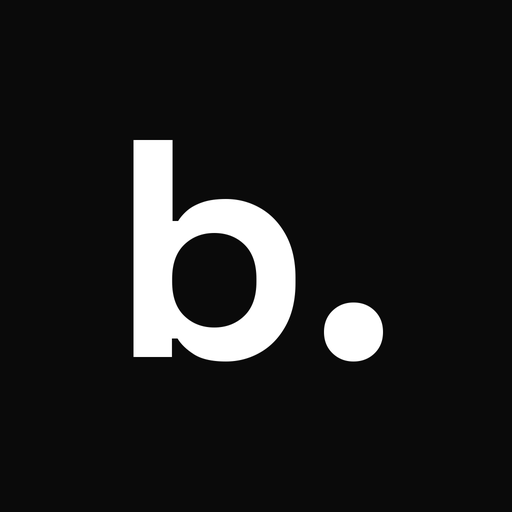
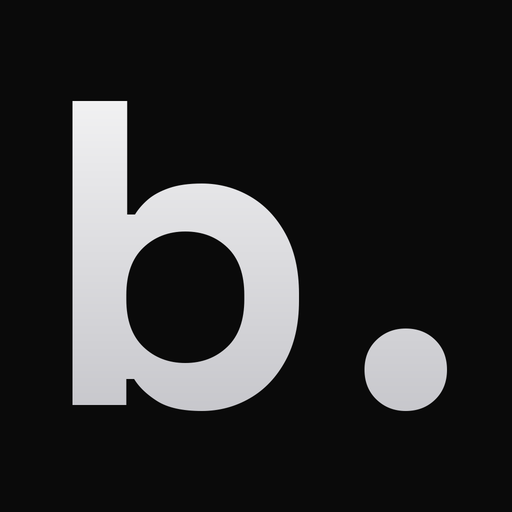
Icona b. più grande (come la R di Revolut), con sfumatura e ombra leggera
Claude-Session: https://claude.ai/code/session_01FKbM9EfrvZ7Xuo11NjrBUj

Changed region(s): [[0.125, 0.1875, 0.5938, 0.8125], [0.625, 0.5938, 0.875, 0.8125]]

diff --git a/src/sw.js b/src/sw.js
@@ -1,5 +1,5 @@
 // Copia offline dell'app. Cambia VERSIONE a ogni aggiornamento.
-const VERSIONE='budget-v58';
+const VERSIONE='budget-v59';
 const FILES=['./','./index.html','./manifest.webmanifest','./apple-touch-icon.png','./icon-192.png','./icon-512.png','./manifest-scura.webmanifest','./apple-touch-icon-scura.png','./icon-192-scura.png','./icon-512-scura.png'];
 self.addEventListener('install',e=>{e.waitUntil(caches.open(VERSIONE).then(c=>c.addAll(FILES)));self.skipWaiting()});
 self.addEventListener('activate',e=>{e.waitUntil(caches.keys().then(k=>Promise.all(k.filter(n=>n!==VERSIONE).map(n=>caches.delete(n)))).then(()=>self.clients.claim()))});

diff --git a/sw.js b/sw.js
@@ -1,5 +1,5 @@
 // Copia offline dell'app. Cambia VERSIONE a ogni aggiornamento.
-const VERSIONE='budget-v58';
+const VERSIONE='budget-v59';
 const FILES=['./','./index.html','./manifest.webmanifest','./apple-touch-icon.png','./icon-192.png','./icon-512.png','./manifest-scura.webmanifest','./apple-touch-icon-scura.png','./icon-192-scura.png','./icon-512-scura.png'];
 self.addEventListener('install',e=>{e.waitUntil(caches.open(VERSIONE).then(c=>c.addAll(FILES)));self.skipWaiting()});
 self.addEventListener('activate',e=>{e.waitUntil(caches.keys().then(k=>Promise.all(k.filter(n=>n!==VERSIONE).map(n=>caches.delete(n)))).then(()=>self.clients.claim()))});
